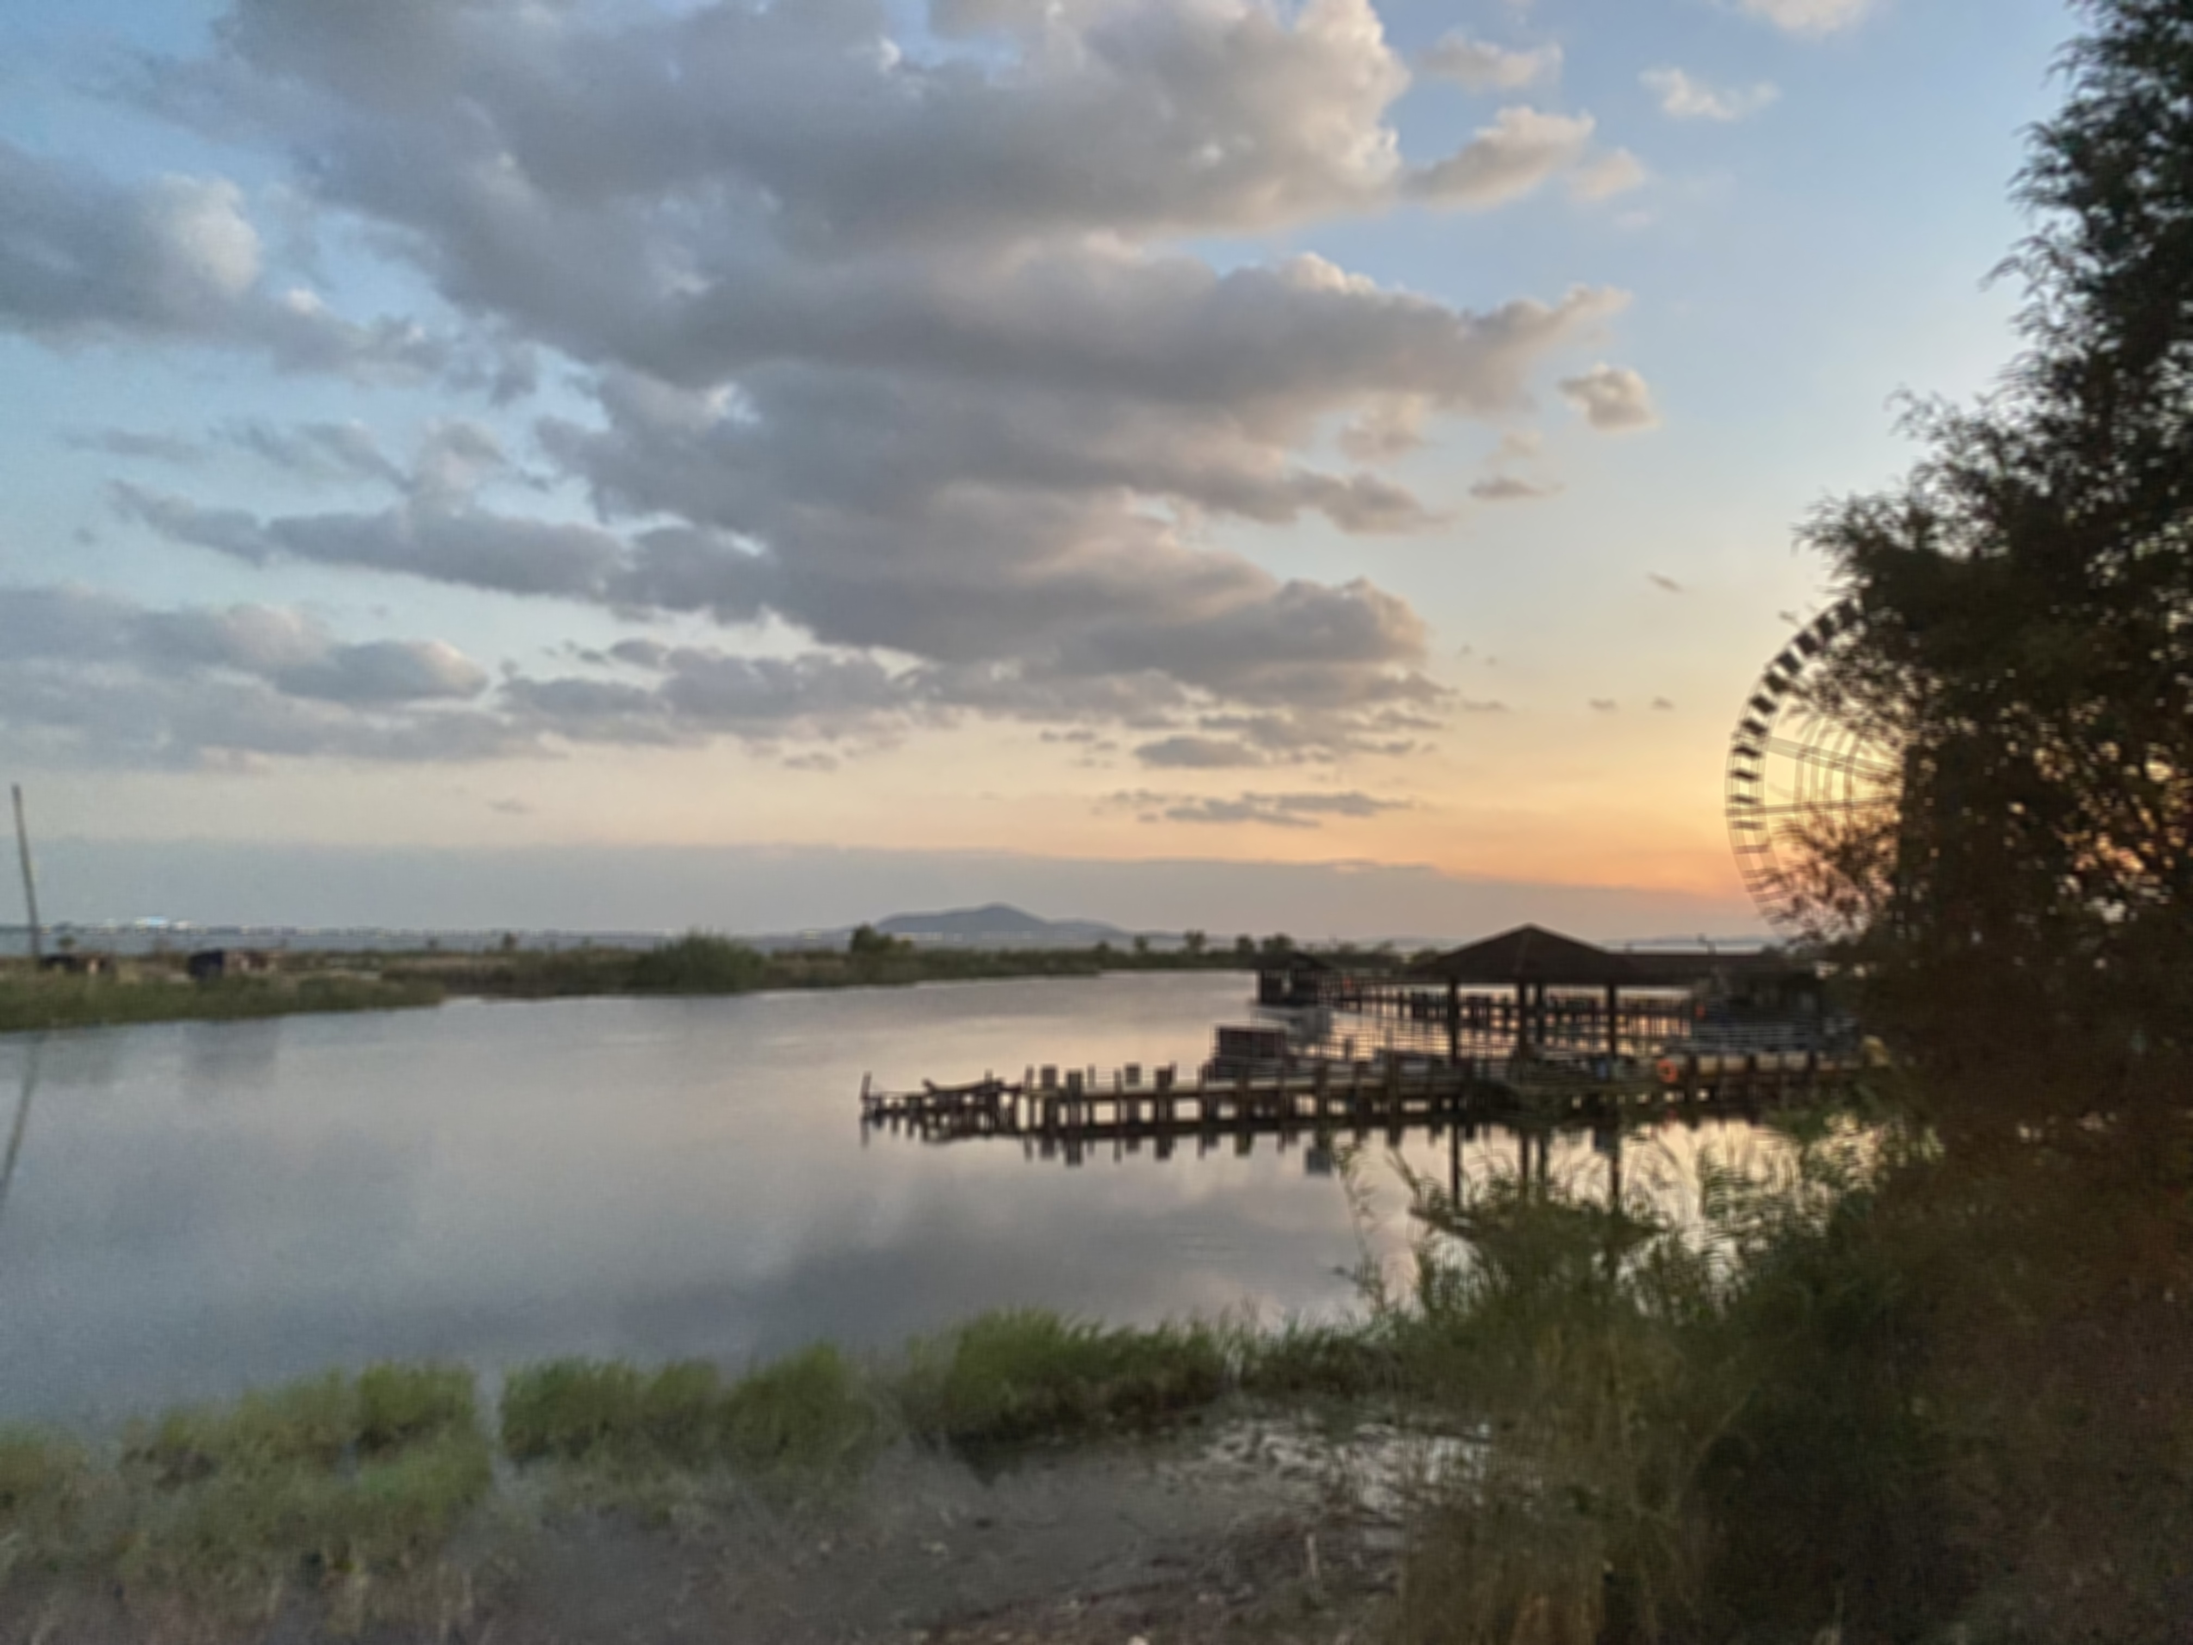
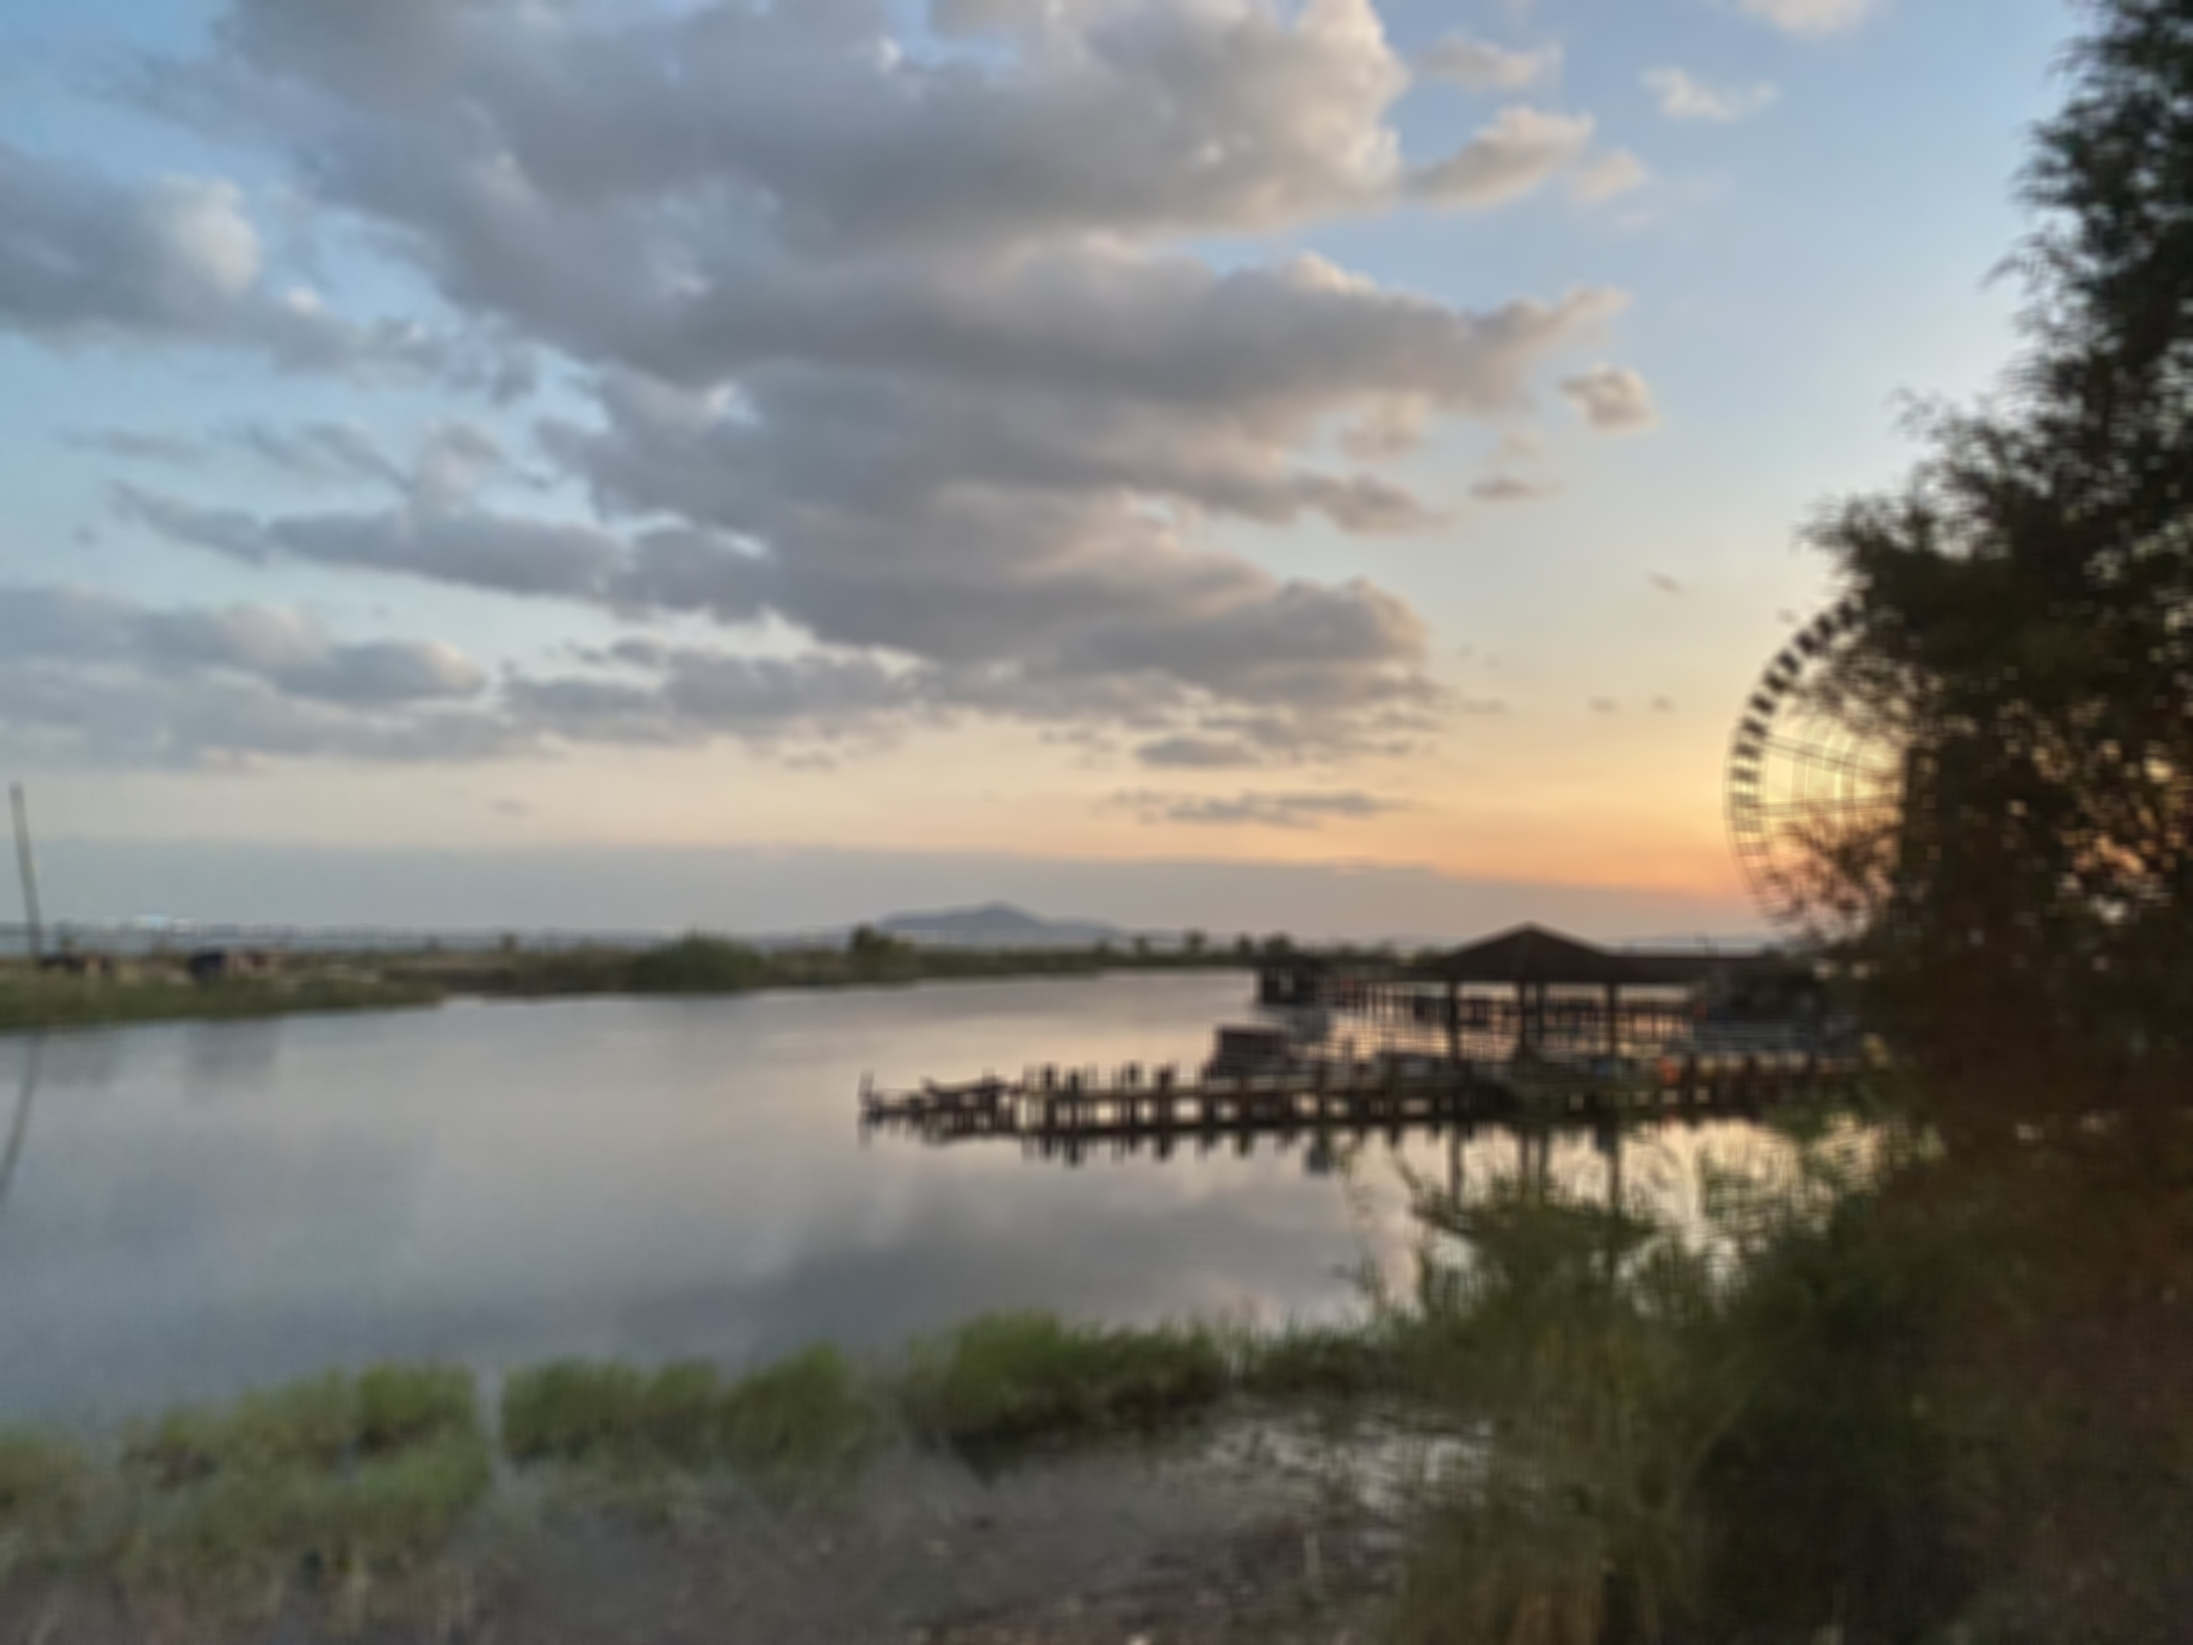
给直方图均衡化模块生成的原始直方图上加上了legend； 将从main模块传入的滤波器大小改成了25*25

diff --git a/extractContour.py b/extractContour.py
@@ -18,9 +18,9 @@ def extract_contours_canny(file_name):
         edges = cv2.Canny(blurred, 50, 150)
 
         # 查找边缘的轮廓
-        contours, _ = cv2.findContours(edges, cv2.RETR_EXTERNAL, cv2.CHAIN_APPROX_SIMPLE)
+        contours = cv2.findContours(edges, cv2.RETR_EXTERNAL, cv2.CHAIN_APPROX_SIMPLE)[0]
 
-        # 在原始图像上z绘制轮廓
+        # 在原始图像上绘制轮廓
         contour_image = cv2.drawContours(image.copy(), contours, -1, (0, 255, 0), 2)
 
         # 显示带有轮廓的图像
@@ -46,12 +46,6 @@ def extract_contours_canny(file_name):
 
 # 定义一个函数，用于使用Sobel算子提取图像的轮廓
 def extract_contours_sobel(file_name):
-    """
-    从指定的图像文件中使用Sobel算子提取轮廓，并在原始图像上绘制这些轮廓。
-
-    参数:
-    file_name (str): 图像文件的路径。
-    """
     try:
         # 读取图像文件
         image = cv2.imread(file_name)
@@ -73,7 +67,7 @@ def extract_contours_sobel(file_name):
         ret, thresh = cv2.threshold(magnitude, 50, 255, cv2.THRESH_BINARY)
 
         # 查找阈值图像的轮廓
-        contours, _ = cv2.findContours(thresh, cv2.RETR_EXTERNAL, cv2.CHAIN_APPROX_SIMPLE)
+        contours = cv2.findContours(thresh, cv2.RETR_EXTERNAL, cv2.CHAIN_APPROX_SIMPLE)[0]
 
         # 在原始图像上绘制轮廓
         contour_image = cv2.drawContours(image.copy(), contours, -1, (0, 255, 0), 2)

diff --git a/histogramEqualization.py b/histogramEqualization.py
@@ -5,13 +5,6 @@ from matplotlib import pyplot as plt
 
 # 定义一个函数，用于对彩色图像进行直方图均衡化，并输出均衡化后的直方图
 def histogram_equalization(file_name):
-    """
-    对指定的彩色图像文件进行直方图均衡化，并显示原始和均衡化后的直方图。
-    同时，将直方图保存为图像文件。
-
-    参数:
-    file_name (str): 图像文件的路径。
-    """
     try:
         # 读取图像文件
         image = cv2.imread(file_name)  # 以彩色模式读取图像
@@ -49,6 +42,7 @@ def histogram_equalization(file_name):
         plt.plot(bins_b[0:-1], hist_b, color='b', label='Blue')
         plt.plot(bins_g[0:-1], hist_g, color='g', label='Green')
         plt.plot(bins_r[0:-1], hist_r, color='r', label='Red')
+        plt.legend()
 
         # 保存原始直方图图像
         plt.savefig(file_name.rsplit('.', 1)[0] + '_originalHistogram.' + file_name.rsplit('.', 1)[1])

diff --git a/main.py b/main.py
@@ -60,15 +60,15 @@ if __name__ == '__main__':
 
             # 利用sobel算子进行图像轮廓提取
             extract_contours_sobel(colorImagePath)
-    
+
             # 直方图均衡化
             histogram_equalization(colorImagePath)
     
             # 均值滤波
-            mean_filter(colorImagePath, 15, 15)
+            mean_filter(colorImagePath, 25, 25)
 
             # 高斯滤波
-            gaussian_filter(colorImagePath, 15, 15, 0)
+            gaussian_filter(colorImagePath, 25, 25, 0)
     except FileNotFoundError:
         # 如果文件没有找到，打印错误信息
         print(f"错误：文件'{colorImagePath}'未找到，请检查路径是否正确。")
